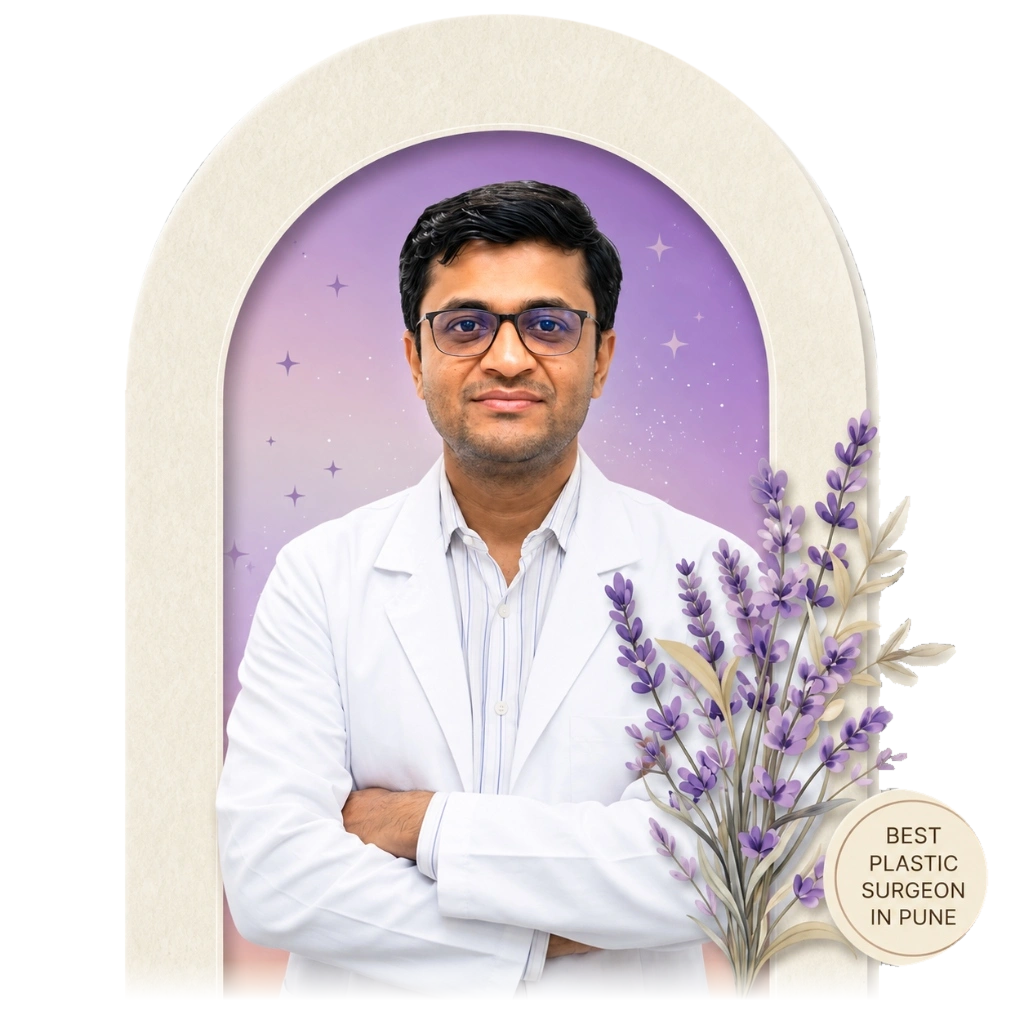
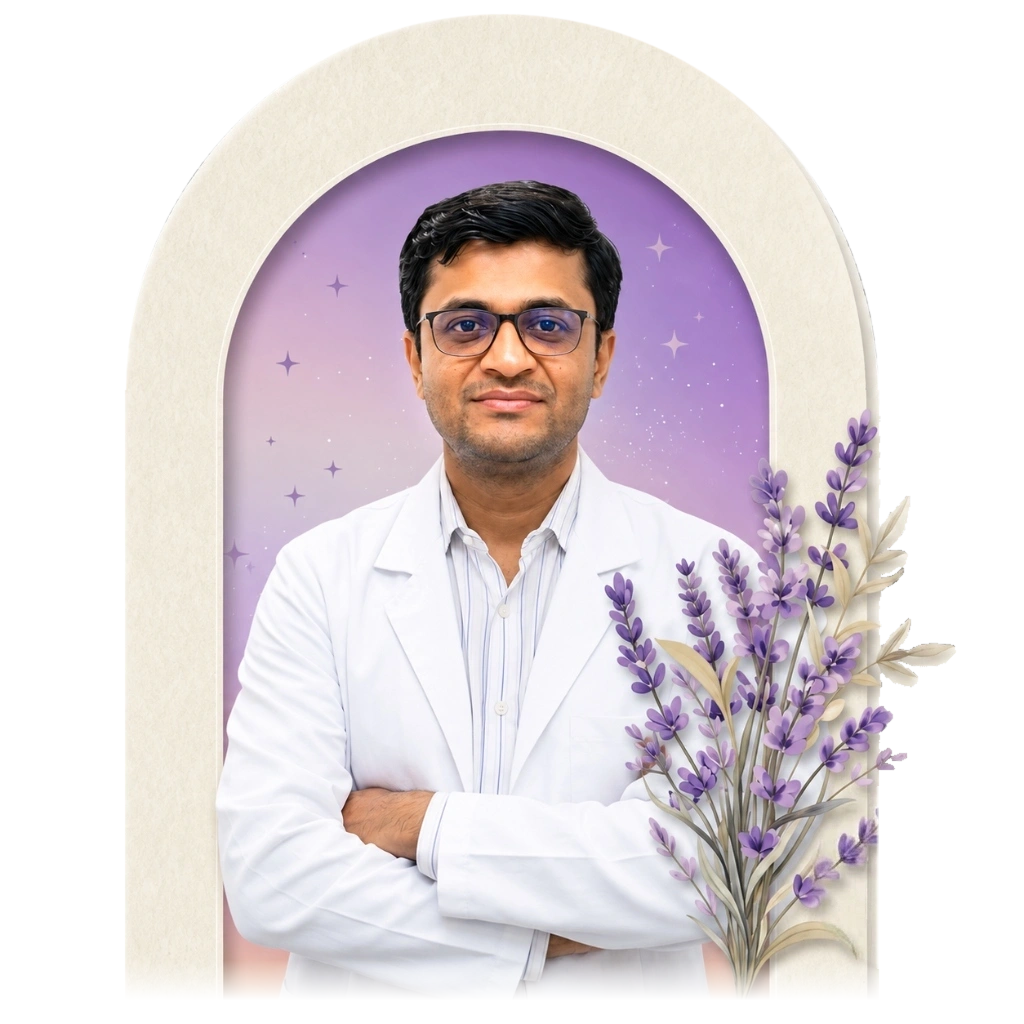
feat(cloudflare): link custom domain, edge redirects, iframe headers, accessibility and SEO improvements

Changed region(s): [[0.7812, 0.75, 0.9688, 0.9688]]

diff --git a/src/components/portfolio/Footer.tsx b/src/components/portfolio/Footer.tsx
@@ -24,9 +24,9 @@ export default function Footer() {
               <span className="text-[10px] font-bold tracking-[0.2em] text-[#FFE4D6] uppercase block">
                 COMPREHENSIVE CLINICAL DIRECTORY
               </span>
-              <h3 className="font-serif text-xl sm:text-2xl text-white font-normal mt-0.5">
+              <h2 className="font-serif text-xl sm:text-2xl text-white font-normal mt-0.5">
                 Specialty Procedures & Clinical Treatments
-              </h3>
+              </h2>
             </div>
             <Link
               href="/services"
@@ -47,18 +47,18 @@ export default function Footer() {
                   </span>
                   <Link
                     href={`/services#${cat.id}`}
-                    className="font-serif text-sm sm:text-base font-medium text-white hover:text-[#FFE4D6] transition-colors block mt-0.5"
+                    className="font-serif text-sm sm:text-base font-medium text-white hover:text-[#FFE4D6] transition-colors inline-block mt-0.5 py-1 min-h-[26px]"
                   >
                     {cat.shortTitle}
                   </Link>
                   <hr className="my-2.5 border-white/20" />
                 </div>
-                <ul className="space-y-1.5 mt-1">
+                <ul className="space-y-1 mt-1">
                   {cat.procedures.map((proc) => (
                     <li key={proc.slug}>
                       <Link
                         href={`/services/${proc.slug}`}
-                        className="text-[11.5px] text-white/85 hover:text-[#FFE4D6] hover:translate-x-1 transition-all duration-200 font-normal block leading-snug"
+                        className="text-[11.5px] text-white/85 hover:text-[#FFE4D6] hover:translate-x-1 transition-all duration-200 font-normal inline-flex items-center min-h-[26px] py-1 leading-snug"
                       >
                         {proc.title.split('(')[0].trim()}
                       </Link>
@@ -103,37 +103,37 @@ export default function Footer() {
 
           {/* Col 2: Quick Navigation in a Single Sleek Vertical List (3 cols centered on md/lg) */}
           <div className="md:col-span-3 lg:col-span-3 md:justify-self-center lg:justify-self-center flex flex-col">
-            <h4 className="text-xs font-bold tracking-[0.16em] text-[#FFE4D6] uppercase">
+            <h2 className="text-xs font-bold tracking-[0.16em] text-[#FFE4D6] uppercase">
               Quick Navigation
-            </h4>
-            <ul className="space-y-2.5 text-xs text-white/85 mt-3">
+            </h2>
+            <ul className="space-y-1.5 text-xs text-white/85 mt-3">
               <li>
-                <Link href="/" className="hover:text-[#FFE4D6] hover:translate-x-1 inline-flex items-center gap-1.5 transition-all duration-200">
+                <Link href="/" className="hover:text-[#FFE4D6] hover:translate-x-1 inline-flex items-center gap-1.5 transition-all duration-200 py-1 min-h-[26px]">
                   <span>Home</span>
                 </Link>
               </li>
               <li>
-                <Link href="/about" className="hover:text-[#FFE4D6] hover:translate-x-1 inline-flex items-center gap-1.5 transition-all duration-200">
+                <Link href="/about" className="hover:text-[#FFE4D6] hover:translate-x-1 inline-flex items-center gap-1.5 transition-all duration-200 py-1 min-h-[26px]">
                   <span>About Dr. Chintan</span>
                 </Link>
               </li>
               <li>
-                <Link href="/services" className="hover:text-[#FFE4D6] hover:translate-x-1 inline-flex items-center gap-1.5 transition-all duration-200">
+                <Link href="/services" className="hover:text-[#FFE4D6] hover:translate-x-1 inline-flex items-center gap-1.5 transition-all duration-200 py-1 min-h-[26px]">
                   <span>All Services</span>
                 </Link>
               </li>
               <li>
-                <Link href="/success-stories" className="hover:text-[#FFE4D6] hover:translate-x-1 inline-flex items-center gap-1.5 transition-all duration-200">
+                <Link href="/success-stories" className="hover:text-[#FFE4D6] hover:translate-x-1 inline-flex items-center gap-1.5 transition-all duration-200 py-1 min-h-[26px]">
                   <span>Success Stories</span>
                 </Link>
               </li>
               <li>
-                <Link href="/#reviews" className="hover:text-[#FFE4D6] hover:translate-x-1 inline-flex items-center gap-1.5 transition-all duration-200">
+                <Link href="/#reviews" className="hover:text-[#FFE4D6] hover:translate-x-1 inline-flex items-center gap-1.5 transition-all duration-200 py-1 min-h-[26px]">
                   <span>Patient Reviews</span>
                 </Link>
               </li>
               <li>
-                <Link href="/contact" className="hover:text-[#FFE4D6] hover:translate-x-1 inline-flex items-center gap-1.5 transition-all duration-200">
+                <Link href="/contact" className="hover:text-[#FFE4D6] hover:translate-x-1 inline-flex items-center gap-1.5 transition-all duration-200 py-1 min-h-[26px]">
                   <span>Contact Us</span>
                 </Link>
               </li>
@@ -142,9 +142,9 @@ export default function Footer() {
 
           {/* Col 3: Sleek Hospital Consultation Centers & Direct Helpline (4 cols on md/lg) */}
           <div className="md:col-span-4 lg:col-span-4 flex flex-col">
-            <h4 className="text-xs font-bold tracking-[0.16em] text-[#FFE4D6] uppercase">
+            <h2 className="text-xs font-bold tracking-[0.16em] text-[#FFE4D6] uppercase">
               Consultation Centers
-            </h4>
+            </h2>
 
             <div className="flex flex-col gap-3 mt-3">
               {/* Ruby Hall Clinic Info Card Box */}
@@ -177,7 +177,8 @@ export default function Footer() {
                     href={rubyHall.mapUrl}
                     target="_blank"
                     rel="noopener noreferrer"
-                    className="font-bold text-white hover:text-[#FFE4D6] hover:underline inline-flex items-center gap-0.5"
+                    aria-label="Directions to Ruby Hall Clinic on Google Maps (opens in new tab)"
+                    className="font-bold text-white hover:text-[#FFE4D6] hover:underline inline-flex items-center gap-0.5 py-1 min-h-[26px]"
                   >
                     <span>Directions</span>
                     <span className="text-[10px]">↗</span>
@@ -215,7 +216,8 @@ export default function Footer() {
                     href={manipal.mapUrl}
                     target="_blank"
                     rel="noopener noreferrer"
-                    className="font-bold text-white hover:text-[#FFE4D6] hover:underline inline-flex items-center gap-0.5"
+                    aria-label="Directions to Manipal Hospital Kharadi on Google Maps (opens in new tab)"
+                    className="font-bold text-white hover:text-[#FFE4D6] hover:underline inline-flex items-center gap-0.5 py-1 min-h-[26px]"
                   >
                     <span>Directions</span>
                     <span className="text-[10px]">↗</span>

diff --git a/src/app/services/[slug]/page.tsx b/src/app/services/[slug]/page.tsx
@@ -827,9 +827,9 @@ export default async function ProcedureDetailPage({ params }: { params: Promise<
                                 {style.renderIcon()}
                               </div>
                               <div className="min-w-0 pr-1">
-                                <h4 className="font-bold text-xs sm:text-[12.5px] text-[#2A2533] leading-tight truncate">
+                                <p className="font-bold text-xs sm:text-[12.5px] text-[#2A2533] leading-tight truncate">
                                   {stat.value} — {stat.label}
-                                </h4>
+                                </p>
                                 <p className="text-[10px] sm:text-[10.5px] text-[#675F72] truncate">
                                   {stat.sub}
                                 </p>
@@ -1044,15 +1044,15 @@ export default async function ProcedureDetailPage({ params }: { params: Promise<
                 </div>
 
                 <div className="bg-white rounded-[24px] border border-[#EDE6F5] p-7 card-shadow">
-                  <h4 className="font-serif text-base text-[#25202E] mb-3">
+                  <h3 className="font-serif text-base text-[#25202E] mb-3">
                     Related Procedures
-                  </h4>
-                  <div className="flex flex-col gap-2 text-xs">
+                  </h3>
+                  <div className="flex flex-col gap-1 text-xs">
                     {relatedProcedures.map((other) => (
                       <Link
                         key={other.slug}
                         href={`/services/${other.slug}`}
-                        className="py-1.5 border-b border-[#F0EBF5] text-[#554B64] hover:text-[#9784B4] transition-colors flex items-center justify-between"
+                        className="py-2.5 border-b border-[#F0EBF5] text-[#554B64] hover:text-[#9784B4] transition-colors flex items-center justify-between min-h-[38px]"
                       >
                         <span>{other.title}</span>
                         <span>→</span>

diff --git a/src/app/sitemap.ts b/src/app/sitemap.ts
@@ -16,25 +16,25 @@ export default function sitemap(): MetadataRoute.Sitemap {
       priority: 1.0,
     },
     {
-      url: `${baseUrl}/about`,
+      url: `${baseUrl}/about/`,
       lastModified,
       changeFrequency: 'monthly',
       priority: 0.9,
     },
     {
-      url: `${baseUrl}/services`,
+      url: `${baseUrl}/services/`,
       lastModified,
       changeFrequency: 'weekly',
       priority: 0.95,
     },
     {
-      url: `${baseUrl}/success-stories`,
+      url: `${baseUrl}/success-stories/`,
       lastModified,
       changeFrequency: 'weekly',
       priority: 0.9,
     },
     {
-      url: `${baseUrl}/contact`,
+      url: `${baseUrl}/contact/`,
       lastModified,
       changeFrequency: 'monthly',
       priority: 0.85,
@@ -52,7 +52,7 @@ export default function sitemap(): MetadataRoute.Sitemap {
   );
 
   const servicePages: MetadataRoute.Sitemap = procedureSlugs.map((slug) => ({
-    url: `${baseUrl}/services/${slug}`,
+    url: `${baseUrl}/services/${slug}/`,
     lastModified,
     changeFrequency: 'weekly',
     priority: 0.9,

diff --git a/src/components/portfolio/Header.tsx b/src/components/portfolio/Header.tsx
@@ -189,9 +189,9 @@ export default function Header() {
                       <span className="text-[10px] font-bold tracking-widest text-[#B8684D] uppercase block">
                         {category.badge}
                       </span>
-                      <h4 className="font-semibold text-sm sm:text-[15px] text-[#25202E] leading-snug mt-1">
+                      <p className="font-semibold text-sm sm:text-[15px] text-[#25202E] leading-snug mt-1">
                         {category.shortTitle}
-                      </h4>
+                      </p>
                     </div>
 
                     <ul className="space-y-2.5 mt-3.5">
